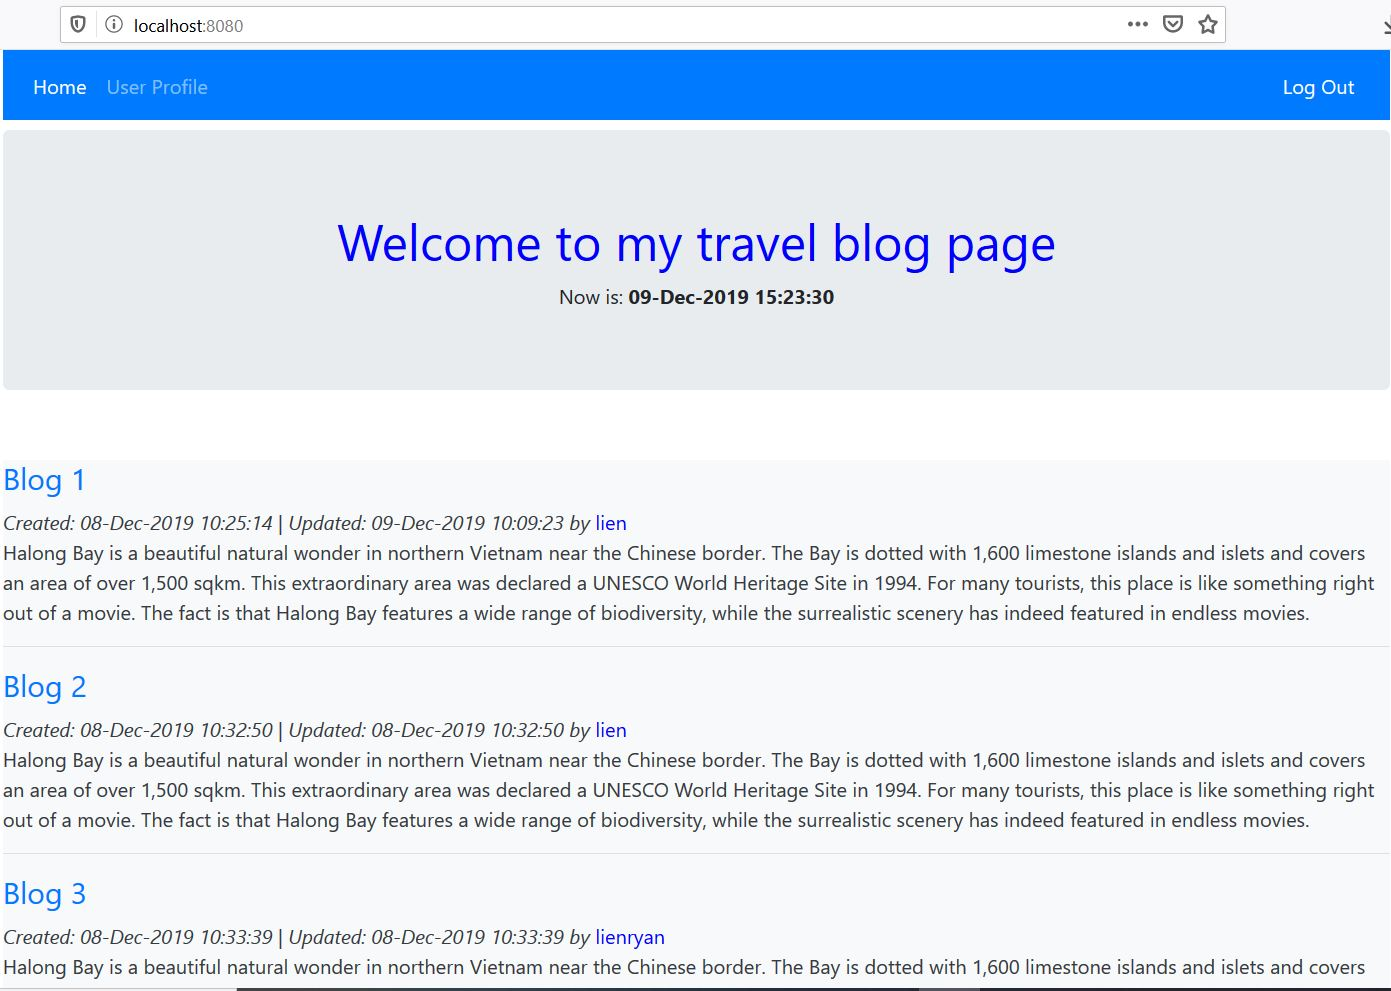
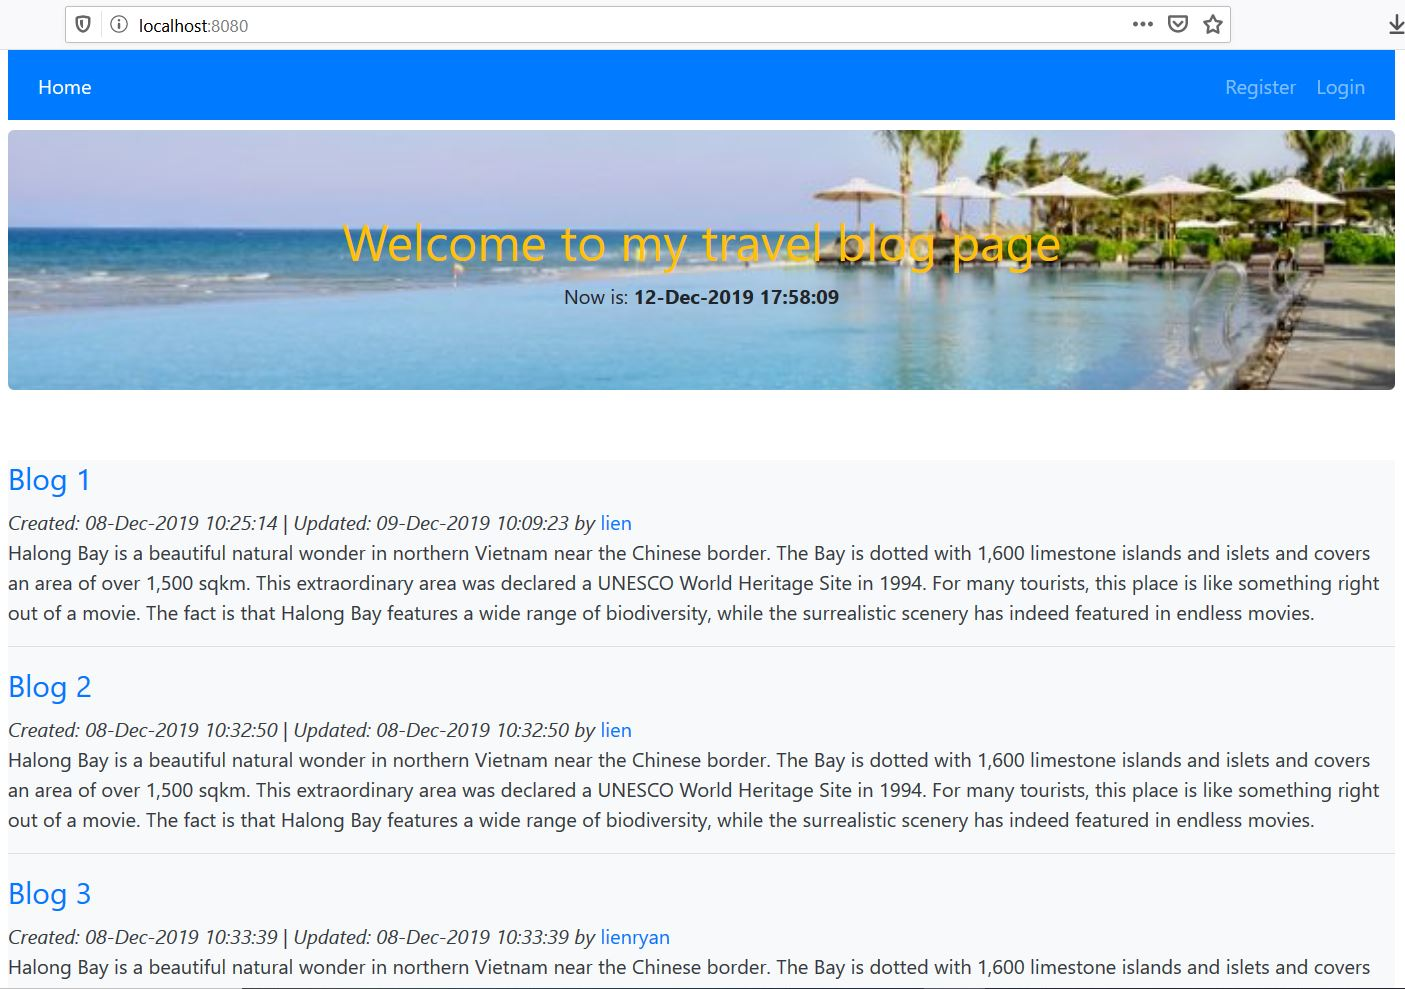
Create Role Admin and refactor styles

diff --git a/src/main/resources/templates/posts/list.html b/src/main/resources/templates/posts/list.html
@@ -7,8 +7,9 @@
 <h1 th:text="${title}" >Default Title</h1>
 
 <h1 th:unless="${posts} and ${posts.size()}">no blog :(</h1>
-<div class="jumbotron text-center">
-    <h1 style="color:blue;" > Welcome to my travel blog page</h1>
+
+<div class="jumbotron text-center" style="background-image: url('beach.jpg'); background-repeat: no-repeat; background-size: cover; background-position: center center;" >
+    <h1 class="text-warning"> Welcome to my travel blog page</h1>
     Now is: <b th:text="${#dates.format(execInfo.now.time, 'dd-MMM-yyyy HH:mm:ss')}"></b>
 </div>
 
@@ -23,7 +24,7 @@
             <div>
                 <em><a  class="d-inline"  th:text="'Created: ' + ${#dates.format(post.createDate, 'dd-MMM-yyyy HH:mm:ss')}"></a></em> |
                 <em><a  class="d-inline"  th:text="'Updated: ' + ${#dates.format(post.updateDate, 'dd-MMM-yyyy HH:mm:ss')} + ' by ' "></a></em>
-                <b><h6  class="d-inline" style="color:blue;" th:text="${post.user.username}">Created by User</h6></b>
+                <a class="d-inline"  th:text="${post.user.username}" th:href="@{/user/profile}">Created by User</a>
             </div>
         </div>
 

diff --git a/src/main/resources/templates/posts/details.html b/src/main/resources/templates/posts/details.html
@@ -13,7 +13,7 @@
     <div>
         <em><a  class="d-inline"  th:text="'Created: ' + ${#dates.format(post.createDate, 'dd-MMM-yyyy HH:mm:ss')}"></a></em> |
         <em><a  class="d-inline"  th:text="'Updated: ' + ${#dates.format(post.updateDate, 'dd-MMM-yyyy HH:mm:ss')} + ' by ' "></a></em>
-        <b><h6  class="d-inline" style="color:blue;" th:text="${post.user.username}">Created by User</h6></b>
+        <a class="d-inline"><i class="text-primary" th:text="${post.user.username}">Created by User</i></a>
     </div>
 
     <p th:text="${post.body}"></p>
@@ -51,11 +51,11 @@
 
 <br>
 
-<h4 style="color:blue;">Comments:</h4>
+<h4 class="text-primary">Comments:</h4>
 <div th:each="comment : ${post.comments}">
     <p th:text="${comment.text}"></p>
 
-    <h6 class="d-inline"  style="color:blue;" th:text="${comment.name}"></h6>
+    <h6 class="d-inline"><a class="text-primary" th:text="${comment.name}"></a></h6>
     <em><a class="d-inline" th:text="' Posted on ' + ${#dates.format(comment.commentDate, 'dd-MMM-yyyy HH:mm:ss')} "></a></em>
     <hr/>
 

diff --git a/src/main/resources/templates/user/list.html b/src/main/resources/templates/user/list.html
@@ -5,10 +5,13 @@
 <nav th:replace="fragments :: navigation"></nav>
 
 <h1 th:text="${title}">Default title</h1>
+<div>
+  <form class="form-inline" action="/user" >
+    <input class="form-control" type="text" name="username" placeholder="Search User" />
+    <input class="btn btn-primary" type="submit" value="Search" />
+  </form>
 
-
-
-<table class="table table-hover">
+  <table class="table table-hover">
 
     <thead>
 
@@ -17,6 +20,7 @@
         <th>Name</th>
 
         <th>Email</th>
+        <th>Delete User</th>
 
     </tr>
 
@@ -29,6 +33,11 @@
         <td th:text="${user.username}"></td>
 
         <td th:text="${user.email}"></td>
+        <td>
+            <form th:action="@{'/user/delete/' + ${user.email}}" method="post">
+                <button class="btn btn-primary active">Delete User</button>
+            </form>
+        </td>
 
     </tr>
 
@@ -36,8 +45,8 @@
 
 
 
-</table>
-
+  </table>
+</div>
 
 
 </body>

diff --git a/src/main/resources/templates/fragments.html b/src/main/resources/templates/fragments.html
@@ -27,13 +27,19 @@
             <a class="nav-link" href="/user/profile">User Profile</a>
         </li>
 
-<!--    <li class="nav-item" sec:authorize="hasRole('ROLE_ADMIN')">
+        <li class="nav-item" sec:authorize="hasRole('ROLE_ADMIN')">
              <a class="nav-link" href="/user">Users</a>
-         </li>
- -->
+        </li>
       </ul>
       <ul class="navbar-nav ml-auto">
+ <!--         <li class="nav-item">
+              <form class="form-inline" th:action="@{/posts}" >
+                  <input class="form-control" type="text" placeholder="Search here" />
+                  <input class="btn btn-primary" type="submit" value="Search" />
+              </form>
+          </li>
 
+ -->
         <li class="nav-item" sec:authorize="!isAuthenticated()">
             <a class="nav-link" href="/user/register">Register</a>
         </li>

diff --git a/src/main/java/launchcode/org/blogliftoff/BlogLiftoffApplication.java b/src/main/java/launchcode/org/blogliftoff/BlogLiftoffApplication.java
@@ -1,15 +1,26 @@
 package launchcode.org.blogliftoff;
 
+import launchcode.org.blogliftoff.models.User;
+import launchcode.org.blogliftoff.services.UserService;
+import org.springframework.beans.factory.annotation.Autowired;
+import org.springframework.boot.CommandLineRunner;
 import org.springframework.boot.SpringApplication;
 import org.springframework.boot.autoconfigure.SpringBootApplication;
 
 @SpringBootApplication
-public class BlogLiftoffApplication {
+public class BlogLiftoffApplication  implements CommandLineRunner {
+	@Autowired
+	private UserService userService;
 
 	public static void main(String[] args) {
 		SpringApplication.run(BlogLiftoffApplication.class, args);
 	}
 
+	@Override
+	public void run(String... args) throws Exception {
+		User admin = new User("Admin","admin@gmail.com","123456");
+		userService.createAdmin(admin);
+	}
 }
 
 

diff --git a/src/main/java/launchcode/org/blogliftoff/controllers/UserController.java b/src/main/java/launchcode/org/blogliftoff/controllers/UserController.java
@@ -28,6 +28,7 @@ public class UserController {
 
     @GetMapping("")
     public String listUsers(Model model) {
+        //TODO Make a list by searching by username
         List<User> allUsers = userService.findAll();
         model.addAttribute("users", allUsers);
         return "user/list";
@@ -78,5 +79,10 @@ public class UserController {
         model.addAttribute("posts", postService.findUserPost(user));
         return "user/profile";
     }
-
+    @PostMapping(value = "delete/{email}")
+    public String processDeleteUser(@PathVariable String email, Model model) {
+        User user=userService.findByEmail(email);
+        //TODO: Only Admin can delete user
+        return "redirect:";
+    }
 }

diff --git a/src/main/java/launchcode/org/blogliftoff/SecurityConfiguration.java b/src/main/java/launchcode/org/blogliftoff/SecurityConfiguration.java
@@ -42,8 +42,9 @@ public class SecurityConfiguration extends WebSecurityConfigurerAdapter {
                 .antMatchers("/").permitAll()
                 .antMatchers("/posts/detail/**").permitAll()
                 .antMatchers("/comments/create/**").permitAll()
-                .antMatchers("user/profile").hasAnyRole("USER")
-                .antMatchers("posts/create").hasAnyRole("USER")
+                .antMatchers("/user/profile").hasAnyRole("USER, ADMIN")
+                .antMatchers("/user").hasAnyRole("ADMIN")
+                .antMatchers("/posts/create").hasAnyRole("USER, ADMIN")
                 .and()
                     .formLogin()
                     .loginPage("/user/login")

diff --git a/src/main/java/launchcode/org/blogliftoff/models/Post.java b/src/main/java/launchcode/org/blogliftoff/models/Post.java
@@ -25,6 +25,7 @@ public class Post {
     private String title;
 
     @Column(name = "body", columnDefinition = "TEXT")
+    @NotEmpty(message = "Content is required")
     private String body;
 
     @Temporal(TemporalType.TIMESTAMP)
